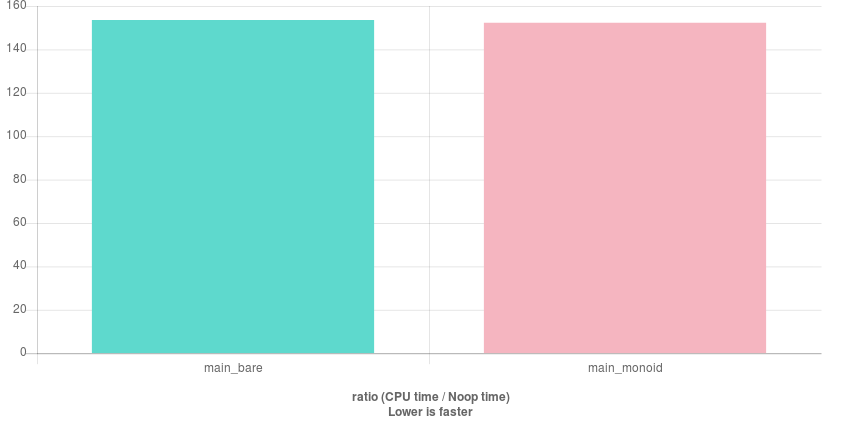
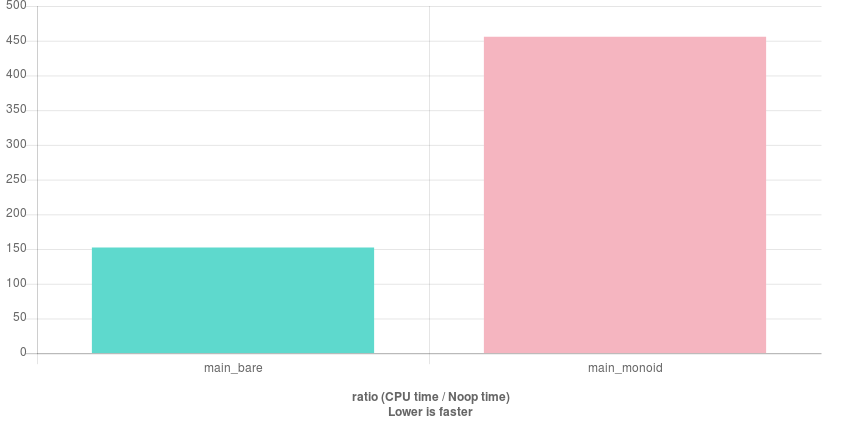
PANIC

diff --git a/monoid/monoid.md b/monoid/monoid.md
@@ -666,7 +666,8 @@ EXPECT_EQ(24, intproduct.mconcat(ints));
 
 ## But isn't it slow?
 
-[thanks, quick-bench!](http://quick-bench.com/mEJDA6p6zEdR_Wg-Yo_PkXXYwto)
+YES!  Goddammit!  Need to investigate.  TODO TODO TODO
+[thanks, quick-bench!](http://quick-bench.com/FzLisnC5zH9bYM2hhqkoozqSXnc)
 
 
 ```
@@ -676,7 +677,7 @@ mconcat<Sum<int>>(begin(ints), end(ints));
 ![benchmark_result.png](benchmark_result.png)  <!-- .element: height="300" -->
 
 <span style="font-size: .5em">
-(-O3 and -O2; for -O1, there's a 10% penalty)
+(-O3 and -O2; [for -O1](http://quick-bench.com/L_gYVdtJjGAfrRebAI3o-Z3oFbE), there's a 30% penalty)
 Cf. also [Linear Types](https://meetingcpp.com/mcpp/slides/2018/lin.pdf)/[ligthning talk](https://www.youtube.com/watch?v=sN8tI-zleFI)
 </span>
 
